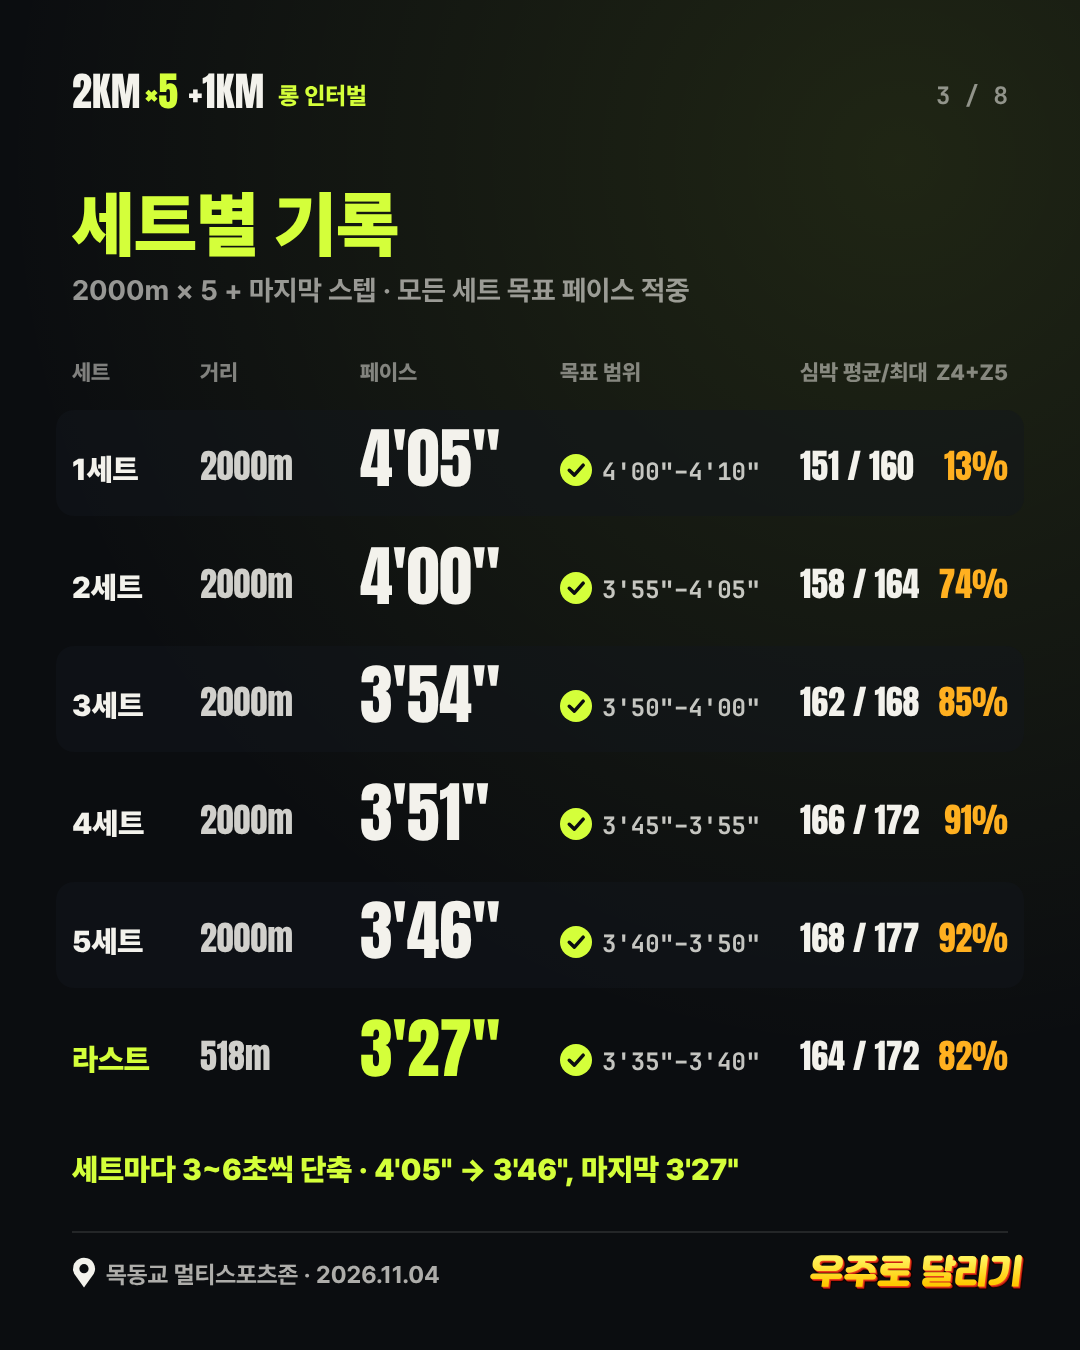
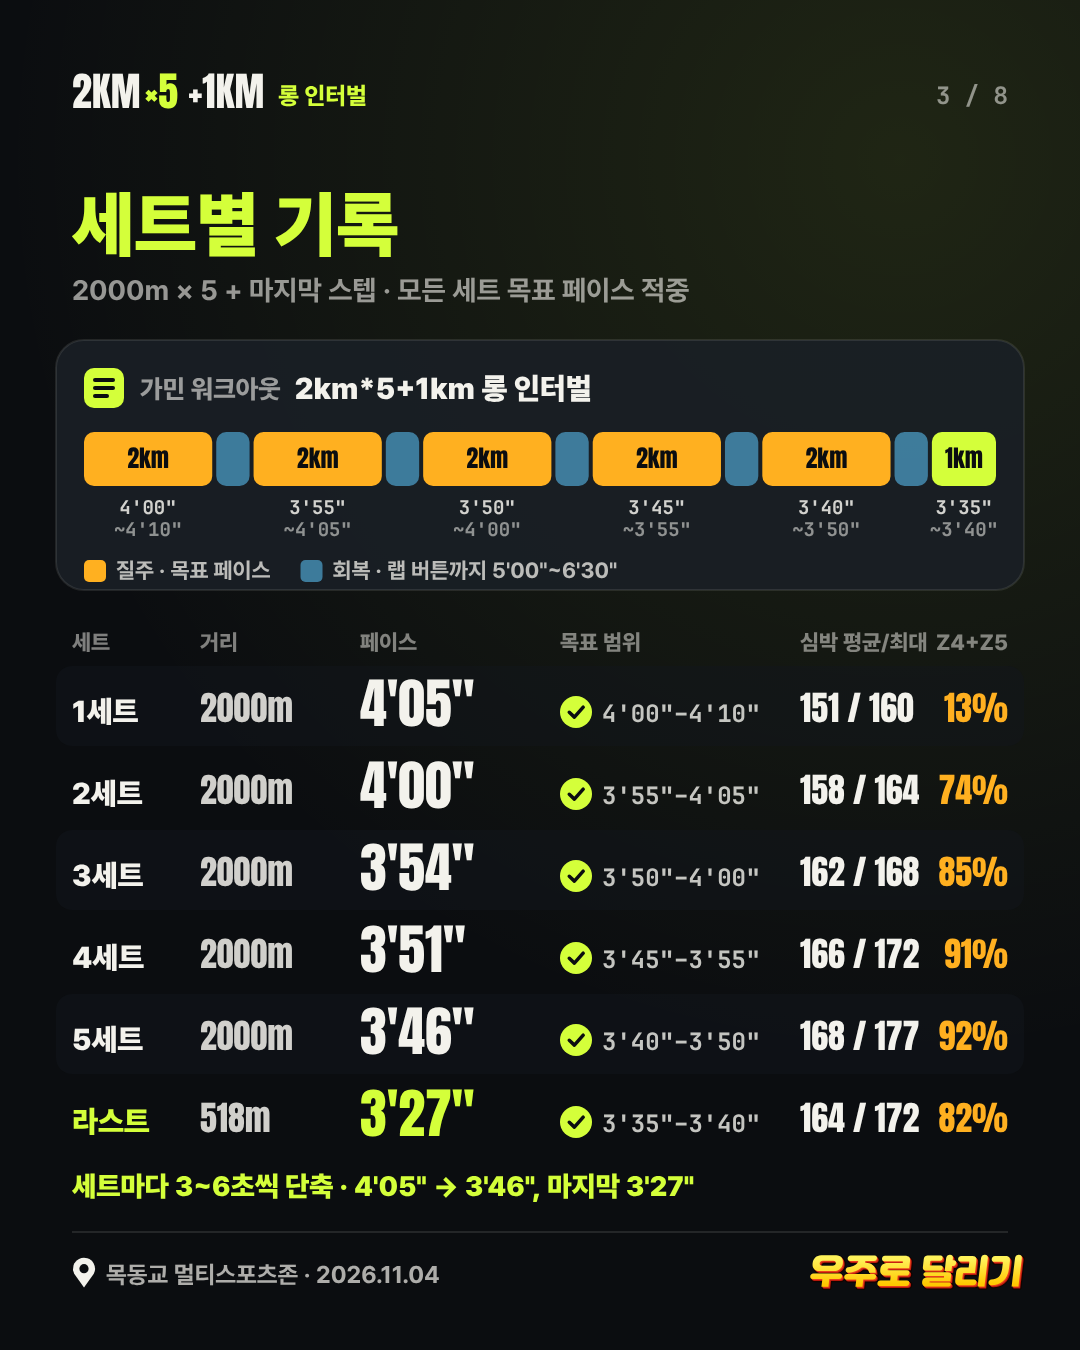
Add Garmin workout plan graphic from FIT workout steps
Claude-Session: https://claude.ai/code/session_014Y6EAQ8ssYscUPsXE8Frp2

diff --git a/.claude/skills/instagram-training-feed/template/cards.js b/.claude/skills/instagram-training-feed/template/cards.js
@@ -59,6 +59,48 @@ function woojuroText(cx, cy, size, lines = [['우주로', -.3], ['달리기', .3
   });
   ctx.restore();
 }
+/* 가민 워크아웃 구성 (FIT의 workout / workout_step에서 가져온 계획) */
+const WORKOUT = {
+  name: '2km*5+1km 롱 인터벌',
+  steps: [
+    ...REPS.flatMap(r => [{ run: true, dist: 2000, lo: r.lo, hi: r.hi }, { run: false, lo: 300, hi: 390 }]),
+    { run: true, dist: 1000, lo: 215, hi: 220 },
+  ],
+};
+function drawWorkoutPlan(x, y, w) {
+  // 제목줄
+  rrect(x, y - 30, 40, 40, 10); ctx.fillStyle = C.lime; ctx.fill();
+  ctx.save(); ctx.strokeStyle = C.bg; ctx.lineWidth = 4; ctx.lineCap = 'round';
+  [[-10, -4], [-10, 6]].forEach(() => {});
+  line(x + 11, y - 18, x + 29, y - 18, 1, { color: C.bg, w: 4, cap: 'round' }); line(x + 11, y - 10, x + 29, y - 10, 1, { color: C.bg, w: 4, cap: 'round' }); line(x + 11, y - 2, x + 23, y - 2, 1, { color: C.bg, w: 4, cap: 'round' });
+  ctx.restore();
+  txt('가민 워크아웃', x + 56, y, { size: 26, weight: 800, alpha: .6 });
+  txt(WORKOUT.name, x + 56 + measure('가민 워크아웃', 26, 800) + 14, y + 1, { size: 30, weight: 900 });
+  // 스텝 타임라인 (길이 비례, 회복은 실제 평균 520m 비율로)
+  const units = WORKOUT.steps.reduce((a, st) => a + (st.run ? st.dist : 520), 0), gap = 4;
+  const bw = w - gap * (WORKOUT.steps.length - 1);
+  let cx = x; const by = y + 34, bh = 54;
+  let n = 0;
+  WORKOUT.steps.forEach((st, i) => {
+    const sw = bw * (st.run ? st.dist : 520) / units;
+    rrect(cx, by, sw, bh, 10);
+    ctx.fillStyle = st.run ? (st.dist === 1000 ? C.lime : ZC[3]) : 'rgba(92,200,255,.55)'; ctx.fill();
+    if (st.run) {
+      n++;
+      txt(st.dist === 1000 ? '1km' : `2km`, cx + sw / 2, by + 36, { size: 24, fam: NUM, weight: 400, color: C.bg, align: 'center' });
+      txt(`${fmtPace(st.lo)}`, cx + sw / 2, by + bh + 28, { size: 19, fam: MONO, weight: 700, align: 'center', alpha: .85 });
+      txt(`~${fmtPace(st.hi)}`, cx + sw / 2, by + bh + 50, { size: 19, fam: MONO, weight: 700, align: 'center', alpha: .55 });
+    }
+    cx += sw + gap;
+  });
+  // 범례
+  const ly = by + bh + 92;
+  rrect(x, ly - 18, 22, 22, 5); ctx.fillStyle = ZC[3]; ctx.fill();
+  txt('질주 · 목표 페이스', x + 32, ly, { size: 22, weight: 700, alpha: .75 });
+  const lx2 = x + 32 + measure('질주 · 목표 페이스', 22, 700) + 30;
+  rrect(lx2, ly - 18, 22, 22, 5); ctx.fillStyle = 'rgba(92,200,255,.55)'; ctx.fill();
+  txt(`회복 · 랩 버튼까지 ${fmtPace(300)}~${fmtPace(390)}`, lx2 + 32, ly, { size: 22, weight: 700, alpha: .75 });
+}
 function cardFrame(n, title, sub, accent = C.lime) {
   bgFill(C.bg, .1, 900, 160);
   titleBadge(99, C.white, false);
@@ -93,24 +135,26 @@ const FEED_CARDS = [
   // 3. 세트별 기록
   ['03-sets', () => {
     cardFrame(3, '세트별 기록', '2000m × 5 + 마지막 스텝 · 모든 세트 목표 페이스 적중');
+    panel(56, 340, W - 112, 250, 'rgba(26,31,38,.9)');
+    drawWorkoutPlan(84, 398, W - 168);
     const cols = [72, 200, 360, 560, 800];
-    ['세트', '거리', '페이스', '목표 범위', '심박 평균/최대'].forEach((h, i) => txt(h, cols[i], 380, { size: 22, weight: 800, alpha: .5 }));
-    txt('Z4+Z5', W - 72, 380, { size: 22, weight: 800, alpha: .5, align: 'right' });
+    ['세트', '거리', '페이스', '목표 범위', '심박 평균/최대'].forEach((h, i) => txt(h, cols[i], 650, { size: 22, weight: 800, alpha: .5 }));
+    txt('Z4+Z5', W - 72, 650, { size: 22, weight: 800, alpha: .5, align: 'right' });
     const rows = [...REPS.map((r, i) => ({ n: `${i + 1}세트`, d: '2000m', p: r.pace, lo: r.lo, hi: r.hi, hr: Math.round(r.hr), mx: REPMAX[i], z: REPZ[i] })),
       { n: '라스트', d: '518m', p: FINAL.pace, lo: FINAL.lo, hi: FINAL.hi, hr: FINAL.hr, mx: 172, z: FINALZ }];
     rows.forEach((r, i) => {
-      const y = 480 + i * 118, last = i === 5;
-      if (i % 2 === 0) { ctx.save(); ctx.globalAlpha = .5; rrect(56, y - 70, W - 112, 106, 18); ctx.fillStyle = C.bg2; ctx.fill(); ctx.restore(); }
+      const y = 722 + i * 82, last = i === 5;
+      if (i % 2 === 0) { ctx.save(); ctx.globalAlpha = .5; rrect(56, y - 56, W - 112, 80, 16); ctx.fillStyle = C.bg2; ctx.fill(); ctx.restore(); }
       txt(r.n, cols[0], y, { size: 30, weight: 900, color: last ? C.lime : C.white });
       txt(r.d, cols[1], y, { size: 34, fam: NUM, weight: 400, alpha: .85 });
-      txt(fmtPace(r.p), cols[2], y + 6, { size: 66, fam: NUM, weight: 400, color: last ? C.lime : C.white });
+      txt(fmtPace(r.p), cols[2], y + 4, { size: 54, fam: NUM, weight: 400, color: last ? C.lime : C.white });
       circle(cols[3] + 16, y - 10, 16, { fill: C.lime }); check(cols[3] + 16, y - 10, 16, 1);
       txt(`${fmtPace(r.lo)}–${fmtPace(r.hi)}`, cols[3] + 42, y, { size: 24, fam: MONO, weight: 700, alpha: .8 });
       txt(`${r.hr} / ${r.mx}`, cols[4], y, { size: 34, fam: NUM, weight: 400, color: C.white });
       const tot = r.z.reduce((a, c) => a + c, 0);
       txt(`${Math.round((r.z[3] + r.z[4]) / tot * 100)}%`, W - 72, y, { size: 34, fam: NUM, weight: 400, color: ZC[3], align: 'right' });
     });
-    txt(`세트마다 3~6초씩 단축 · ${fmtPace(REPS[0].pace)} → ${fmtPace(REPS[4].pace)}, 마지막 ${fmtPace(FINAL.pace)}`, 72, 1180, { size: 30, weight: 900, color: C.lime });
+    txt(`세트마다 3~6초씩 단축 · ${fmtPace(REPS[0].pace)} → ${fmtPace(REPS[4].pace)}, 마지막 ${fmtPace(FINAL.pace)}`, 72, 1196, { size: 28, weight: 900, color: C.lime });
   }],
   // 4. 심박 변화 그래프
   ['04-hr-trend', () => {
@@ -225,6 +269,15 @@ const FEED_CARDS = [
   }],
 ];
 window.FEED_CARDS = FEED_CARDS.map(c => c[0]);
+/* 워크아웃 구성 단독 이미지 (1080×330) */
+window.workoutImage = () => {
+  ctx.setTransform(1, 0, 0, 1, 0, 0); ctx.globalAlpha = 1;
+  ctx.fillStyle = C.bg; ctx.fillRect(0, 0, W, H);
+  panel(24, 24, W - 48, 282, 'rgba(26,31,38,1)');
+  drawWorkoutPlan(64, 96, W - 128);
+  const o = document.createElement('canvas'); o.width = W; o.height = 330; o.getContext('2d').drawImage(cv, 0, 0);
+  return o.toDataURL('image/png');
+};
 window.ready = window.ready.then(async () => {
   const f = new FontFace('yg-jalnan', 'url(node_modules/@noonnu/yg-jalnan/fonts/yg-jalnan-normal.woff)'); await f.load(); document.fonts.add(f);
   return true;

diff --git a/run-review/cards.js b/run-review/cards.js
@@ -59,6 +59,48 @@ function woojuroText(cx, cy, size, lines = [['우주로', -.3], ['달리기', .3
   });
   ctx.restore();
 }
+/* 가민 워크아웃 구성 (FIT의 workout / workout_step에서 가져온 계획) */
+const WORKOUT = {
+  name: '2km*5+1km 롱 인터벌',
+  steps: [
+    ...REPS.flatMap(r => [{ run: true, dist: 2000, lo: r.lo, hi: r.hi }, { run: false, lo: 300, hi: 390 }]),
+    { run: true, dist: 1000, lo: 215, hi: 220 },
+  ],
+};
+function drawWorkoutPlan(x, y, w) {
+  // 제목줄
+  rrect(x, y - 30, 40, 40, 10); ctx.fillStyle = C.lime; ctx.fill();
+  ctx.save(); ctx.strokeStyle = C.bg; ctx.lineWidth = 4; ctx.lineCap = 'round';
+  [[-10, -4], [-10, 6]].forEach(() => {});
+  line(x + 11, y - 18, x + 29, y - 18, 1, { color: C.bg, w: 4, cap: 'round' }); line(x + 11, y - 10, x + 29, y - 10, 1, { color: C.bg, w: 4, cap: 'round' }); line(x + 11, y - 2, x + 23, y - 2, 1, { color: C.bg, w: 4, cap: 'round' });
+  ctx.restore();
+  txt('가민 워크아웃', x + 56, y, { size: 26, weight: 800, alpha: .6 });
+  txt(WORKOUT.name, x + 56 + measure('가민 워크아웃', 26, 800) + 14, y + 1, { size: 30, weight: 900 });
+  // 스텝 타임라인 (길이 비례, 회복은 실제 평균 520m 비율로)
+  const units = WORKOUT.steps.reduce((a, st) => a + (st.run ? st.dist : 520), 0), gap = 4;
+  const bw = w - gap * (WORKOUT.steps.length - 1);
+  let cx = x; const by = y + 34, bh = 54;
+  let n = 0;
+  WORKOUT.steps.forEach((st, i) => {
+    const sw = bw * (st.run ? st.dist : 520) / units;
+    rrect(cx, by, sw, bh, 10);
+    ctx.fillStyle = st.run ? (st.dist === 1000 ? C.lime : ZC[3]) : 'rgba(92,200,255,.55)'; ctx.fill();
+    if (st.run) {
+      n++;
+      txt(st.dist === 1000 ? '1km' : `2km`, cx + sw / 2, by + 36, { size: 24, fam: NUM, weight: 400, color: C.bg, align: 'center' });
+      txt(`${fmtPace(st.lo)}`, cx + sw / 2, by + bh + 28, { size: 19, fam: MONO, weight: 700, align: 'center', alpha: .85 });
+      txt(`~${fmtPace(st.hi)}`, cx + sw / 2, by + bh + 50, { size: 19, fam: MONO, weight: 700, align: 'center', alpha: .55 });
+    }
+    cx += sw + gap;
+  });
+  // 범례
+  const ly = by + bh + 92;
+  rrect(x, ly - 18, 22, 22, 5); ctx.fillStyle = ZC[3]; ctx.fill();
+  txt('질주 · 목표 페이스', x + 32, ly, { size: 22, weight: 700, alpha: .75 });
+  const lx2 = x + 32 + measure('질주 · 목표 페이스', 22, 700) + 30;
+  rrect(lx2, ly - 18, 22, 22, 5); ctx.fillStyle = 'rgba(92,200,255,.55)'; ctx.fill();
+  txt(`회복 · 랩 버튼까지 ${fmtPace(300)}~${fmtPace(390)}`, lx2 + 32, ly, { size: 22, weight: 700, alpha: .75 });
+}
 function cardFrame(n, title, sub, accent = C.lime) {
   bgFill(C.bg, .1, 900, 160);
   titleBadge(99, C.white, false);
@@ -93,24 +135,26 @@ const FEED_CARDS = [
   // 3. 세트별 기록
   ['03-sets', () => {
     cardFrame(3, '세트별 기록', '2000m × 5 + 마지막 스텝 · 모든 세트 목표 페이스 적중');
+    panel(56, 340, W - 112, 250, 'rgba(26,31,38,.9)');
+    drawWorkoutPlan(84, 398, W - 168);
     const cols = [72, 200, 360, 560, 800];
-    ['세트', '거리', '페이스', '목표 범위', '심박 평균/최대'].forEach((h, i) => txt(h, cols[i], 380, { size: 22, weight: 800, alpha: .5 }));
-    txt('Z4+Z5', W - 72, 380, { size: 22, weight: 800, alpha: .5, align: 'right' });
+    ['세트', '거리', '페이스', '목표 범위', '심박 평균/최대'].forEach((h, i) => txt(h, cols[i], 650, { size: 22, weight: 800, alpha: .5 }));
+    txt('Z4+Z5', W - 72, 650, { size: 22, weight: 800, alpha: .5, align: 'right' });
     const rows = [...REPS.map((r, i) => ({ n: `${i + 1}세트`, d: '2000m', p: r.pace, lo: r.lo, hi: r.hi, hr: Math.round(r.hr), mx: REPMAX[i], z: REPZ[i] })),
       { n: '라스트', d: '518m', p: FINAL.pace, lo: FINAL.lo, hi: FINAL.hi, hr: FINAL.hr, mx: 172, z: FINALZ }];
     rows.forEach((r, i) => {
-      const y = 480 + i * 118, last = i === 5;
-      if (i % 2 === 0) { ctx.save(); ctx.globalAlpha = .5; rrect(56, y - 70, W - 112, 106, 18); ctx.fillStyle = C.bg2; ctx.fill(); ctx.restore(); }
+      const y = 722 + i * 82, last = i === 5;
+      if (i % 2 === 0) { ctx.save(); ctx.globalAlpha = .5; rrect(56, y - 56, W - 112, 80, 16); ctx.fillStyle = C.bg2; ctx.fill(); ctx.restore(); }
       txt(r.n, cols[0], y, { size: 30, weight: 900, color: last ? C.lime : C.white });
       txt(r.d, cols[1], y, { size: 34, fam: NUM, weight: 400, alpha: .85 });
-      txt(fmtPace(r.p), cols[2], y + 6, { size: 66, fam: NUM, weight: 400, color: last ? C.lime : C.white });
+      txt(fmtPace(r.p), cols[2], y + 4, { size: 54, fam: NUM, weight: 400, color: last ? C.lime : C.white });
       circle(cols[3] + 16, y - 10, 16, { fill: C.lime }); check(cols[3] + 16, y - 10, 16, 1);
       txt(`${fmtPace(r.lo)}–${fmtPace(r.hi)}`, cols[3] + 42, y, { size: 24, fam: MONO, weight: 700, alpha: .8 });
       txt(`${r.hr} / ${r.mx}`, cols[4], y, { size: 34, fam: NUM, weight: 400, color: C.white });
       const tot = r.z.reduce((a, c) => a + c, 0);
       txt(`${Math.round((r.z[3] + r.z[4]) / tot * 100)}%`, W - 72, y, { size: 34, fam: NUM, weight: 400, color: ZC[3], align: 'right' });
     });
-    txt(`세트마다 3~6초씩 단축 · ${fmtPace(REPS[0].pace)} → ${fmtPace(REPS[4].pace)}, 마지막 ${fmtPace(FINAL.pace)}`, 72, 1180, { size: 30, weight: 900, color: C.lime });
+    txt(`세트마다 3~6초씩 단축 · ${fmtPace(REPS[0].pace)} → ${fmtPace(REPS[4].pace)}, 마지막 ${fmtPace(FINAL.pace)}`, 72, 1196, { size: 28, weight: 900, color: C.lime });
   }],
   // 4. 심박 변화 그래프
   ['04-hr-trend', () => {
@@ -225,6 +269,15 @@ const FEED_CARDS = [
   }],
 ];
 window.FEED_CARDS = FEED_CARDS.map(c => c[0]);
+/* 워크아웃 구성 단독 이미지 (1080×330) */
+window.workoutImage = () => {
+  ctx.setTransform(1, 0, 0, 1, 0, 0); ctx.globalAlpha = 1;
+  ctx.fillStyle = C.bg; ctx.fillRect(0, 0, W, H);
+  panel(24, 24, W - 48, 282, 'rgba(26,31,38,1)');
+  drawWorkoutPlan(64, 96, W - 128);
+  const o = document.createElement('canvas'); o.width = W; o.height = 330; o.getContext('2d').drawImage(cv, 0, 0);
+  return o.toDataURL('image/png');
+};
 window.ready = window.ready.then(async () => {
   const f = new FontFace('yg-jalnan', 'url(node_modules/@noonnu/yg-jalnan/fonts/yg-jalnan-normal.woff)'); await f.load(); document.fonts.add(f);
   return true;

diff --git a/.claude/skills/instagram-training-feed/SKILL.md b/.claude/skills/instagram-training-feed/SKILL.md
@@ -68,7 +68,7 @@ description: "인스타그램 훈련 피드 양식" — Garmin 러닝 데이터(
 | 파일 | 내용 |
 |---|---|
 | 02 세션 요약 | 총 거리·운동 시간·평균 페이스·평균/최대 심박·칼로리 + 본훈련 패널(거리·시간·평균 페이스·평균 심박) |
-| 03 세트별 기록 | 표: 세트 · 거리(2000m) · 페이스 · 목표 범위(✓) · 심박 평균/최대 · Z4+Z5 %, 마지막 줄에 단축 요약 |
+| 03 세트별 기록 | 위: **가민 워크아웃 구성**(`drawWorkoutPlan()` — FIT의 workout/workout_step: 워크아웃 이름, 질주 2km·1km 블록 + 목표 페이스 범위, 회복 "랩 버튼까지" 블록 + 회복 목표). 아래: 표 세트 · 거리 · 페이스 · 목표 범위(✓) · 심박 평균/최대 · Z4+Z5 %, 마지막 줄에 단축 요약. 워크아웃 구성은 `out/workout-plan.png`(1080×330)로도 따로 저장 |
 | 04 심박 변화 | 세션 전체 심박 그래프(존 밴드·세트 음영) + **급수·휴식 마커**(물방울 + 초) + 범례 + 세트별 최대 심박 칩 |
 | 05 심박존 분석 | 본훈련 존 도넛 + 존별 시간·% + 세트별 존 누적 막대 |
 | 06 회복 & 라스트 | 회복 조깅 N회 평균(거리·페이스·심박) + 구간 칩 / 라스트 스퍼트 페이스 + 약 520m + 목표 대비 |
@@ -110,7 +110,7 @@ description: "인스타그램 훈련 피드 양식" — Garmin 러닝 데이터(
 - `sRecovery`, `RECAVG`: 회복 조깅 평균 거리·페이스·심박.
 - `sFinal`: 오른쪽 "마지막 바퀴 약 520m" 숫자.
 - `PAUSES`: 급수·휴식 구간 [시작 경과초, 길이초].
-- `cards.js`: 모든 카드의 수치·문구(장소·날짜, 표 행, 다이내믹스 값, 소개 문구·태그). 브랜드 카드 문구는 사용자 소개에 맞게 바꿀 수 있다.
+- `cards.js`의 `WORKOUT`(워크아웃 이름·스텝·목표, `training.json`의 reps/recoveries 목표값과 FIT 워크아웃 이름) 및 모든 카드의 수치·문구(장소·날짜, 표 행, 다이내믹스 값, 소개 문구·태그). 브랜드 카드 문구는 사용자 소개에 맞게 바꿀 수 있다.
 - `sAnalysis`/`sChart`: 세트별 최대 심박 흐름 문구, 도넛 중앙 %, 다이내믹스 값, 훈련 효과 한 줄, 심박 회복 평균·제외 사유, N/N.
 - `sOutro`: 목적·방식·결과 3줄 (세트별 단축 폭, 첫→마지막 페이스, Z4 비중 등 실제 수치로).
 - `draw()`의 장면 분기 비트 인덱스, `SECS`(하단 진행 바 구간 시각), HUD 거리(13.12), `endT = b(마지막 히트)`, `DUR`(곡 길이).
